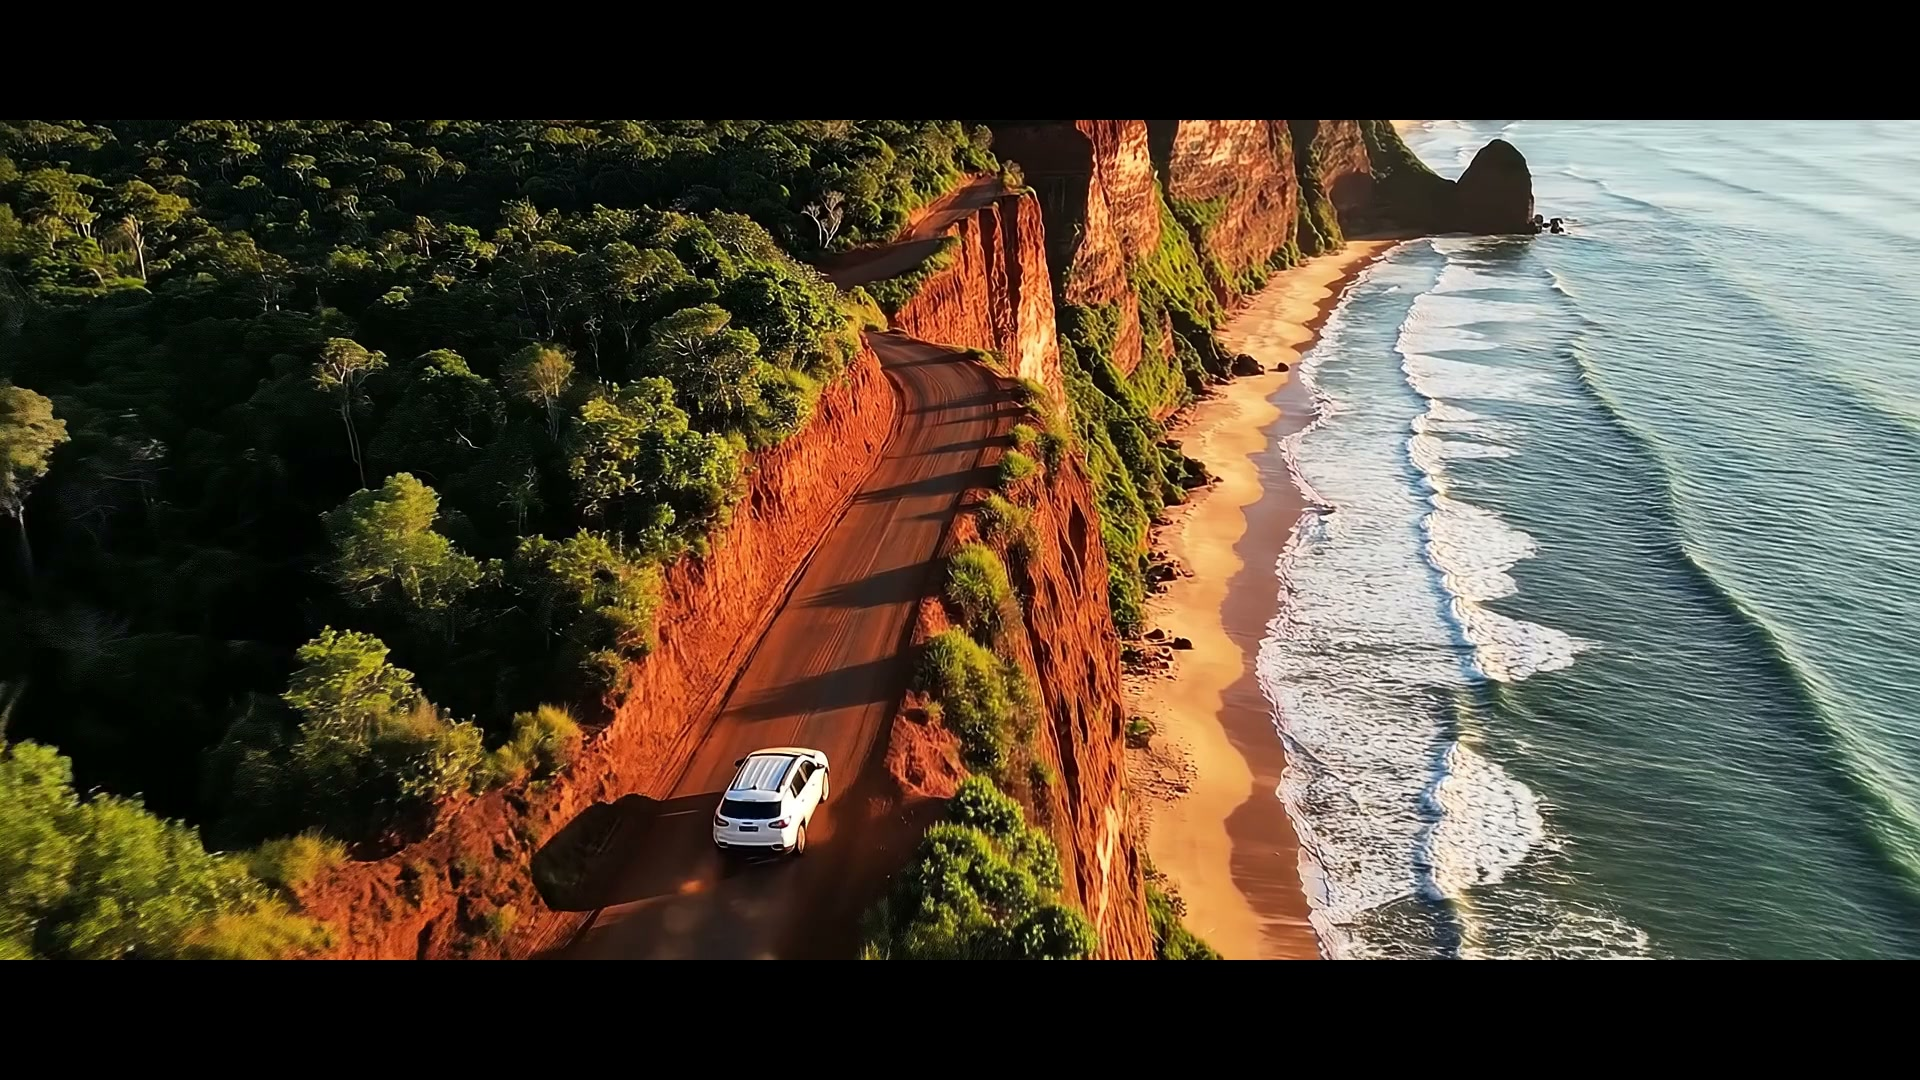
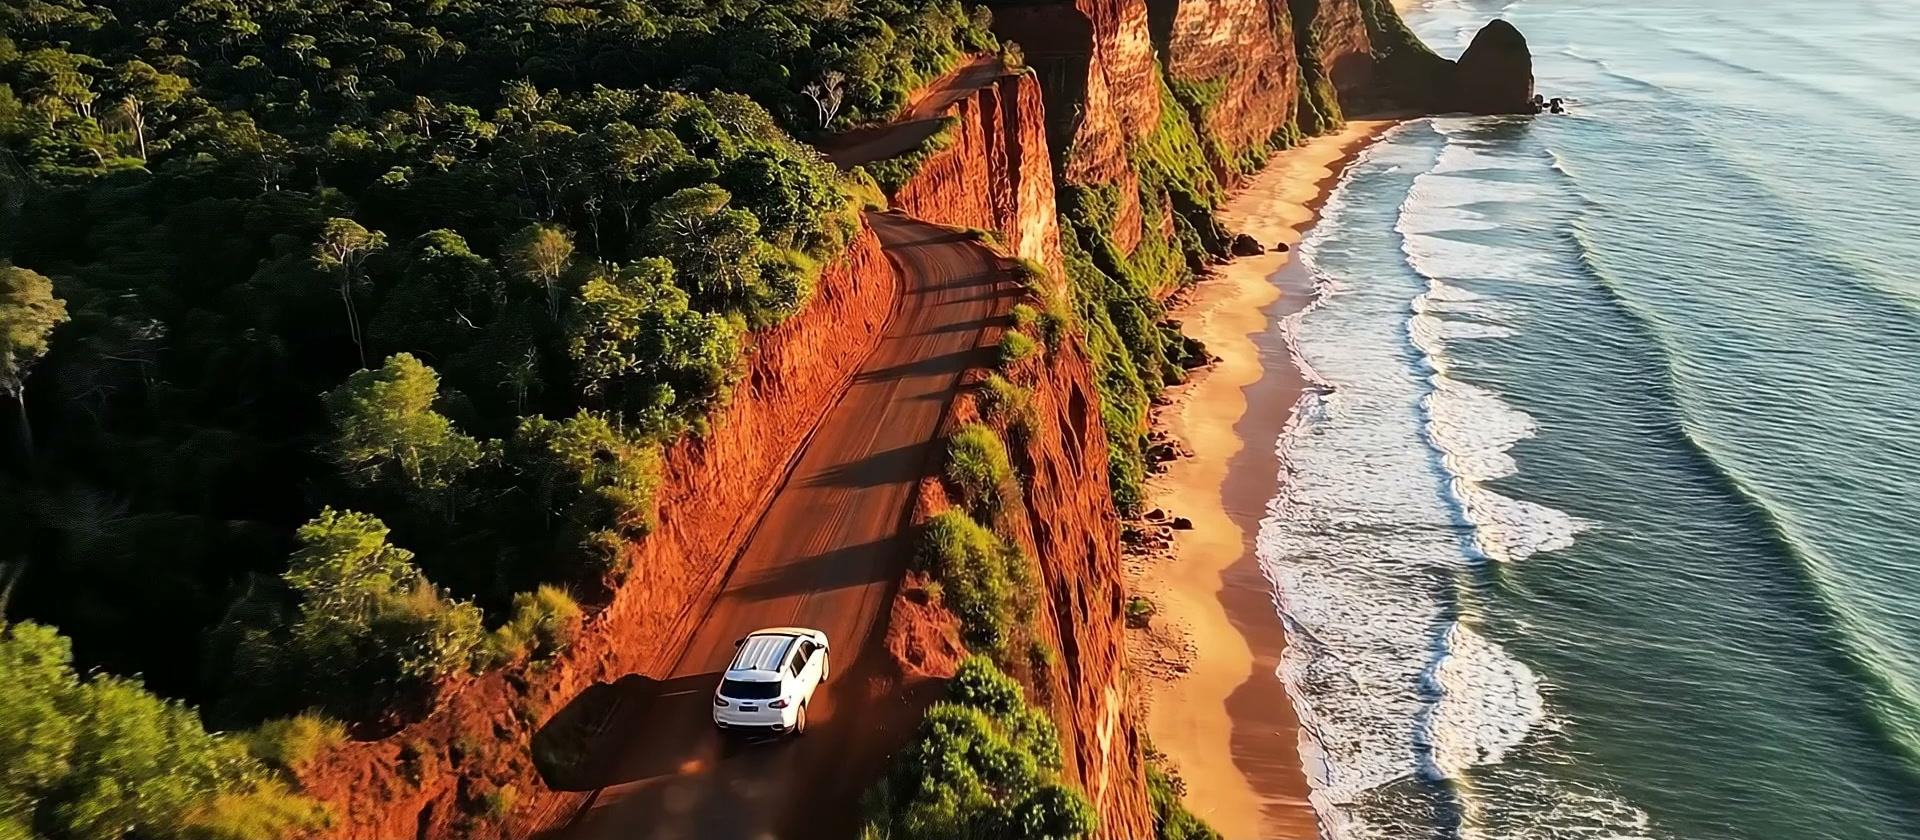
feat(header): transparencia fosca translúcida no header e ajuste de escala do video para preencher o topo

diff --git a/Nobre-Transfers/index.html b/Nobre-Transfers/index.html
@@ -147,15 +147,19 @@
       left: 0;
       width: 100%;
       z-index: 1000;
-      background: linear-gradient(180deg, rgba(20, 17, 15, 0.70) 0%, rgba(20, 17, 15, 0.30) 60%, transparent 100%);
-      border-bottom: none;
-      transition: background 200ms ease, border-color 200ms ease, box-shadow 200ms ease, padding 200ms ease;
-      padding: var(--space-24) 0;
+      background: rgba(14, 18, 26, 0.25);
+      backdrop-filter: blur(12px);
+      -webkit-backdrop-filter: blur(12px);
+      border-bottom: 1px solid rgba(255, 255, 255, 0.08);
+      transition: background 250ms ease, border-color 250ms ease, box-shadow 250ms ease, padding 250ms ease;
+      padding: var(--space-20) 0;
     }
 
     .site-header.is-scrolled {
-      background: var(--color-surface);
-      border-bottom: 1px solid var(--color-border);
+      background: rgba(14, 18, 26, 0.92);
+      backdrop-filter: blur(16px);
+      -webkit-backdrop-filter: blur(16px);
+      border-bottom: 1px solid rgba(244, 239, 230, 0.10);
       box-shadow: 0 4px 20px rgba(0, 0, 0, 0.5);
       padding: var(--space-16) 0;
     }
@@ -308,10 +312,12 @@
     }
 
     @media (max-width: 860px) {
-      /* Header 100% transparente sobre o vídeo no mobile */
+      /* Header com transparência elegante de vidro sobre o vídeo */
       .site-header {
-        background: transparent !important;
-        border-bottom: none !important;
+        background: rgba(14, 18, 26, 0.25) !important;
+        backdrop-filter: blur(12px);
+        -webkit-backdrop-filter: blur(12px);
+        border-bottom: 1px solid rgba(255, 255, 255, 0.08) !important;
         box-shadow: none !important;
         padding: 12px 0;
       }
@@ -472,7 +478,7 @@
       width: 100%;
       height: 100%;
       object-fit: cover;
-      transform: translate(-50%, -50%);
+      transform: translate(-50%, -50%) scale(1.30);
       pointer-events: none;
       transition: opacity 0.8s ease;
       will-change: transform, opacity;
@@ -480,7 +486,7 @@
 
     @media (min-aspect-ratio: 16/10) {
       .hero-video-element {
-        transform: translate(-50%, -50%) scale(1.35);
+        transform: translate(-50%, -50%) scale(1.38);
       }
     }
 
@@ -1422,11 +1428,13 @@
        SMARTPHONE RESPONSIVO: MOBILE FIRST & COMPACTO
        ======================================================== */
     @media (max-width: 600px) {
-      /* Header mobile: 100% transparente sobre o vídeo */
+      /* Header mobile com transparência translúcida sobre o vídeo */
       .site-header {
         padding: 10px 0;
-        background: transparent !important;
-        border-bottom: none !important;
+        background: rgba(14, 18, 26, 0.25) !important;
+        backdrop-filter: blur(12px);
+        -webkit-backdrop-filter: blur(12px);
+        border-bottom: 1px solid rgba(255, 255, 255, 0.08) !important;
         box-shadow: none !important;
       }
 
